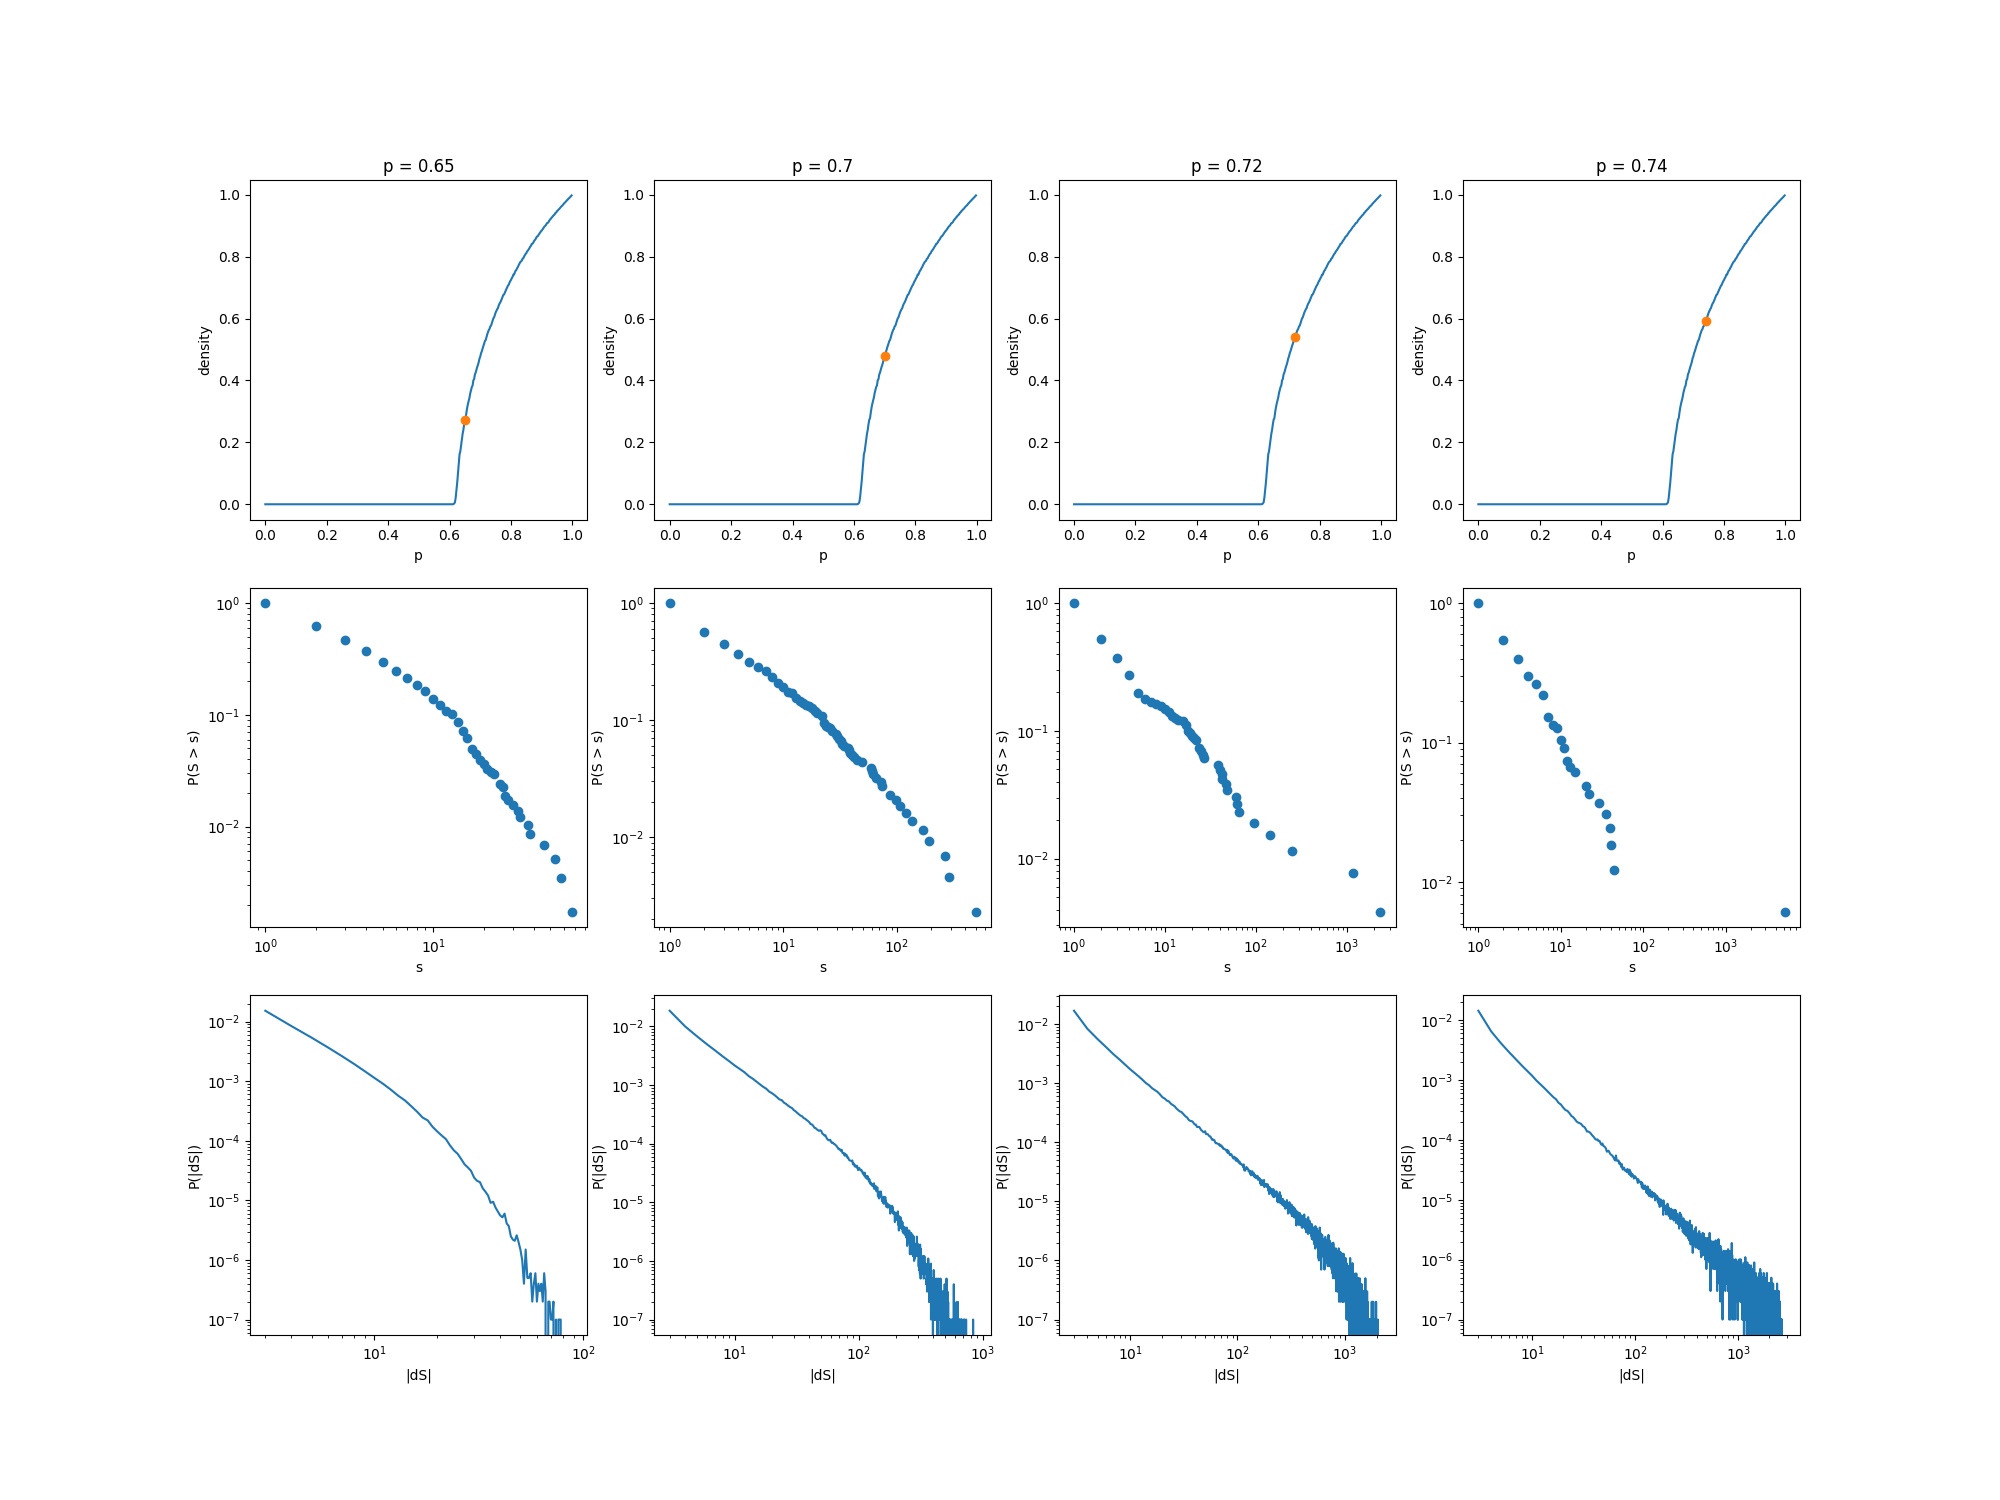
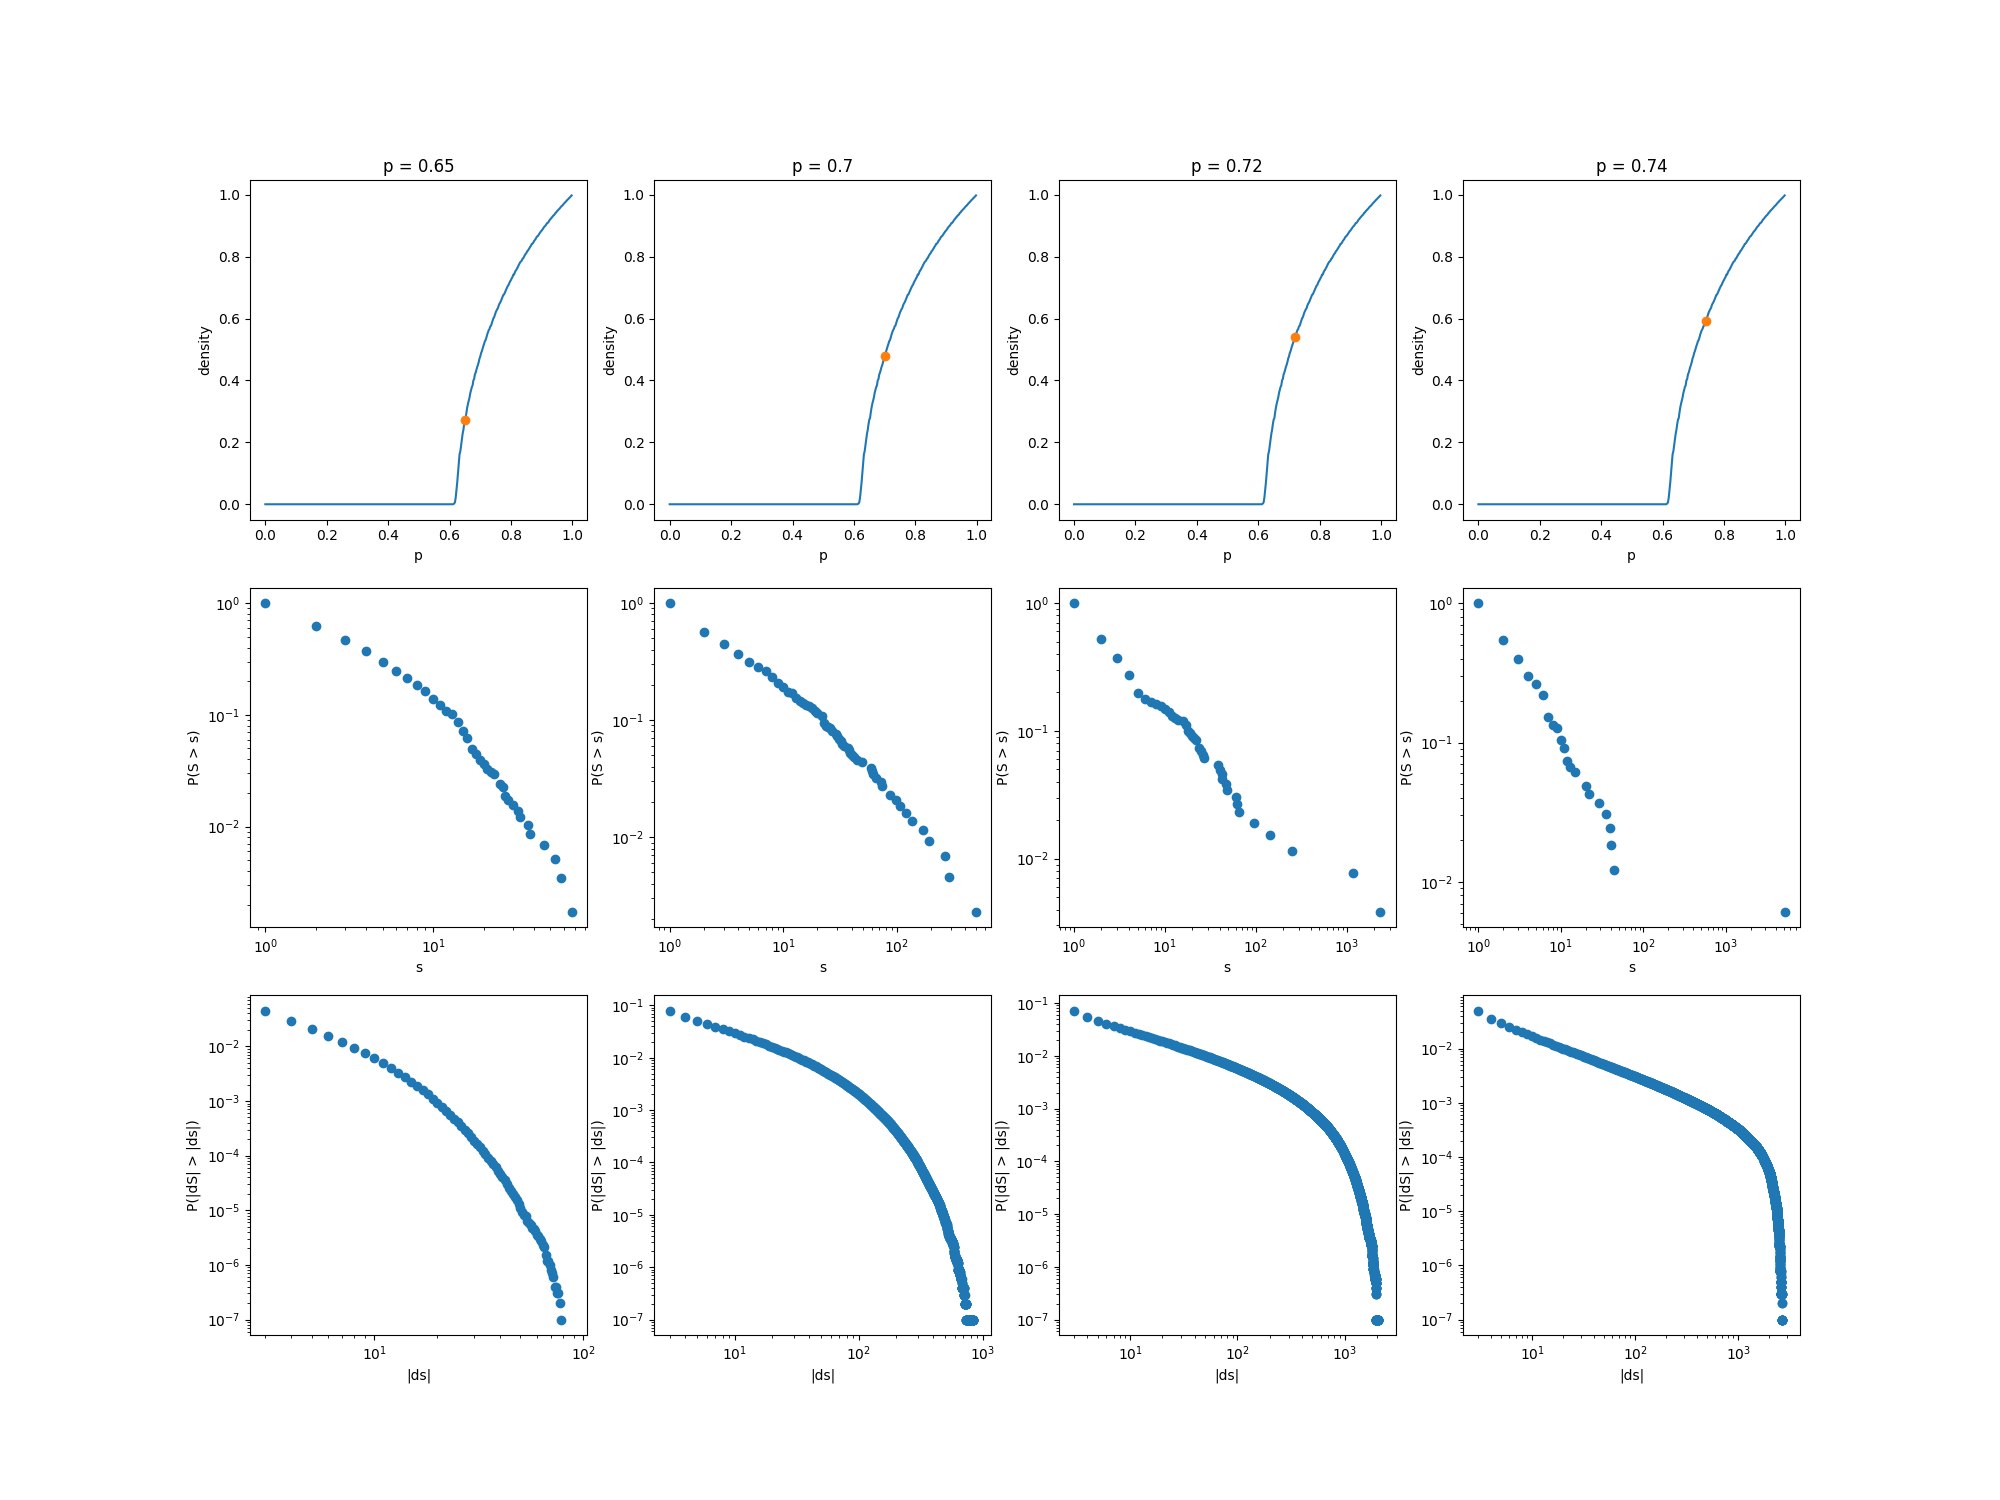
Added SDE script

diff --git a/plotters/sde.py b/plotters/sde.py
@@ -1,0 +1,62 @@
+from matplotlib import pyplot as plt
+from numpy import loadtxt, transpose
+from os import path
+from tqdm import tqdm
+
+
+def get_mean_ds(name, limit):
+    folder = path.join(data_path, name)
+    cluster_ds_data = transpose(loadtxt(open(path.join(folder, name + '_cluster_ds.txt'), 'r')))
+    cluster_analyze_limit = min(limit, len(cluster_ds_data[0]))
+    cluster_ds_data = cluster_ds_data[1]
+
+    return range(cluster_analyze_limit), cluster_ds_data[:cluster_analyze_limit]
+
+
+def get_mean_ds_sq(name, limit):
+    folder = path.join(data_path, name)
+    cluster_ds_data = transpose(loadtxt(open(path.join(folder, name + '_cluster_ds.txt'), 'r')))
+    cluster_analyze_limit = min(limit, len(cluster_ds_data[0]))
+    cluster_ds_data = cluster_ds_data[2]
+
+    return range(cluster_analyze_limit), cluster_ds_data[:cluster_analyze_limit]
+
+
+if __name__ == '__main__':
+    results_path = path.join(path.dirname(path.dirname(__file__)), 'results')
+    model = "tricritical"
+    subfolder = "q0"
+    dataset = "optimized_fixed"
+
+    data_path = path.join(results_path, model, subfolder, dataset)
+    p_values = [0.65, 0.7, 0.72, 0.74]
+    cluster_limits = [100, 500, 500, 500]
+    q = 0
+    num_cols = len(p_values)
+
+    plt.subplots(2, num_cols, figsize=(20, 10))
+
+    for i in tqdm(range(num_cols)):
+        col = i + 1
+        p = p_values[i]
+        limit = cluster_limits[i]
+        name = str(p).replace('.', 'p')
+
+        row = 0
+        cluster_sizes, mean_ds = get_mean_ds(name, limit)
+        plt.subplot(2, num_cols, row * num_cols + col)
+        plt.title(f"p = {p}")
+        plt.xlabel("Cluster Size")
+        plt.ylabel("Mean |dS|")
+        plt.plot(cluster_sizes, mean_ds)
+        plt.plot([0, limit], [0, 0], 'k--')
+
+        row = 1
+        cluster_sizes, mean_ds_sq = get_mean_ds_sq(name, limit)
+        plt.subplot(2, num_cols, row * num_cols + col)
+        plt.xlabel("Cluster Size")
+        plt.ylabel("Mean (dS^2)")
+        plt.plot(cluster_sizes, mean_ds_sq)
+    
+    plt.savefig("cluster_sde.png")
+    plt.show()

diff --git a/plotters/power_law.py b/plotters/power_law.py
@@ -26,10 +26,9 @@ def get_cluster_distribution(folder, file_name):
     cluster_sizes, num = cluster_distribution_data[0][1:], cluster_distribution_data[1][1:]
 
     inverse_cdf = zeros(len(num))
-    normalization = sum(num)
-
     for i in range(len(num)):
-        inverse_cdf[i] = sum(num[i:]) / normalization
+        inverse_cdf[i] = sum(num[i:])
+    inverse_cdf = inverse_cdf / sum(num)
 
     remove_indices = []
     for i in range(len(cluster_sizes) - 1):
@@ -63,7 +62,18 @@ def get_cluster_dynamics(folder, file_name):
 
     abs_changes_histogram[0] = abs_changes_histogram[0] / 2
 
-    return abs_changes[3:], abs_changes_histogram[3:]
+    inverse_cdf = zeros(len(abs_changes_histogram))
+    for i in range(len(abs_changes_histogram)):
+        inverse_cdf[i] = sum(abs_changes_histogram[i:])
+    inverse_cdf = inverse_cdf / sum(abs_changes_histogram)
+
+    probability = zeros(len(abs_changes_histogram))
+    probability[0] = sum(abs_changes_histogram)
+
+    for i in range(1, len(abs_changes_histogram)):
+        probability[i] = probability[i - 1] - abs_changes_histogram[i - 1]
+
+    return abs_changes[3:], inverse_cdf[3:]
 
 
 if __name__ == '__main__':
@@ -104,11 +114,11 @@ if __name__ == '__main__':
 
         row = 2
         file_name = f"{folder_name}_changes.txt"
-        changes, changes_histogram = get_cluster_dynamics(folder_name, file_name)
+        changes, inverse_cdf = get_cluster_dynamics(folder_name, file_name)
         plt.subplot(3, len(p_values), row * num_cols + col)
-        plt.xlabel("|dS|")
-        plt.ylabel("P(|dS|)")
-        plt.loglog(changes, changes_histogram)
+        plt.xlabel("|ds|")
+        plt.ylabel("P(|dS| > |ds|)")
+        plt.loglog(changes, inverse_cdf, 'o')
 
     plt.savefig("power_law.png")
     plt.show()
